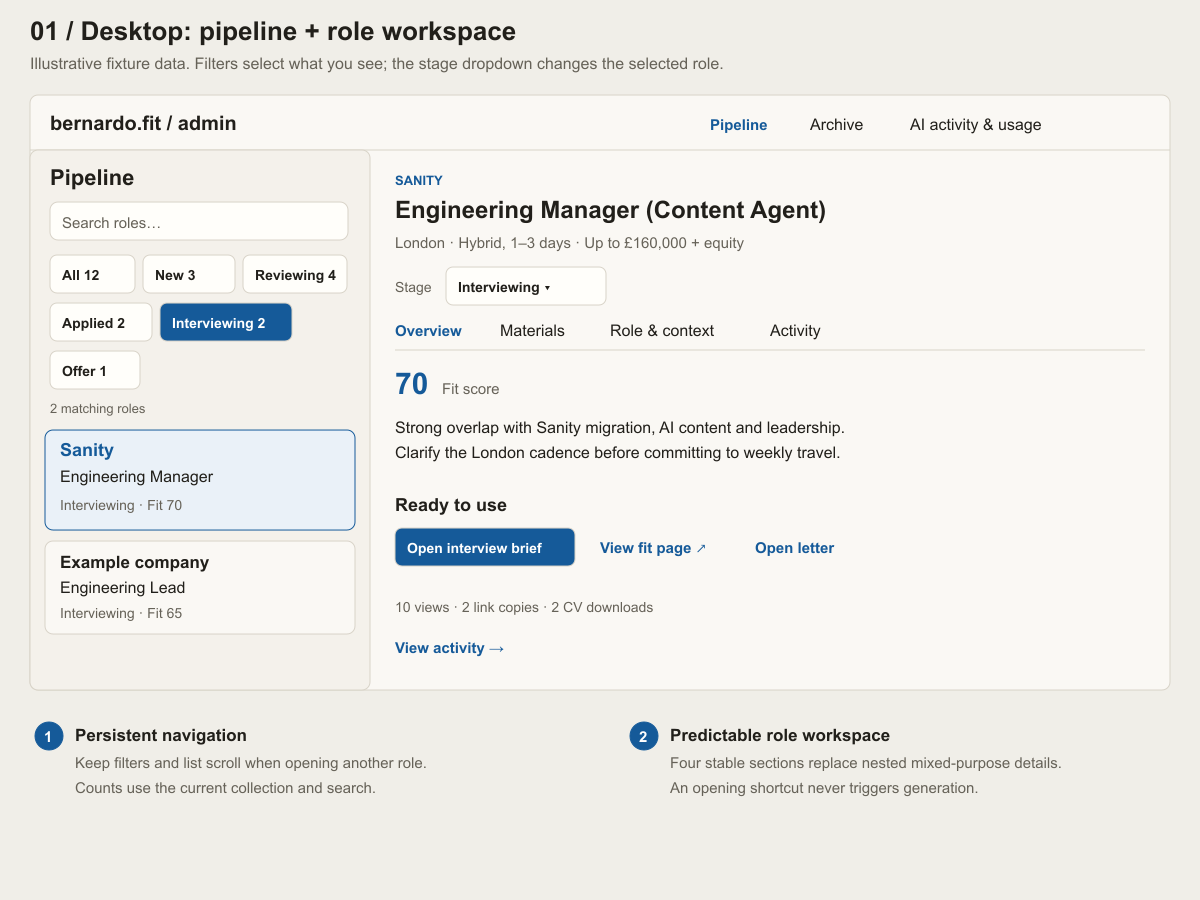
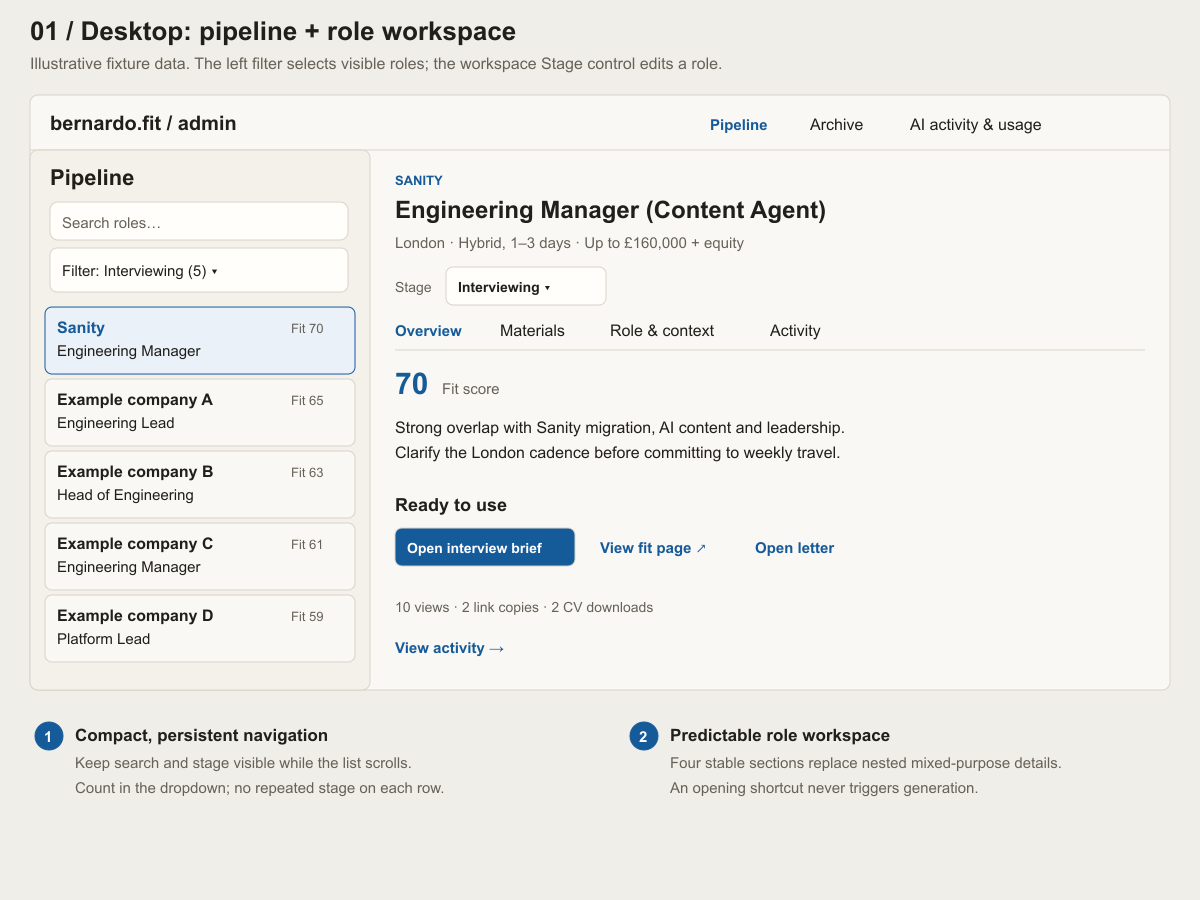
docs: compact pipeline filters and role entries

diff --git a/docs/admin-ux/README.md b/docs/admin-ux/README.md
@@ -1,6 +1,6 @@
 # Admin UX visual implementation guide
 
-Use alongside [the implementation plan](../admin-ux-implementation-plan.md). These annotated wireframes specify layout hierarchy and interaction intent, not completed functionality or pixel-perfect screenshots. Counts, the second company, and review state are illustrative fixtures. Real stages, freshness, scope, costs and output availability come from the application.
+Use alongside [the implementation plan](../admin-ux-implementation-plan.md). These annotated wireframes specify layout hierarchy and interaction intent, not completed functionality or pixel-perfect screenshots. Counts, example companies, and review state are illustrative fixtures. Real stages, freshness, scope, costs and output availability come from the application.
 
 The SVG sources are editable, self-contained and readable on GitHub. Companion PNGs show the same guides for image viewers. Do not implement screenshot text as hard-coded application data. The latest user decision is represented here: **amber sparkle generation buttons, without repeated Paid AI labels**.
 
@@ -8,9 +8,11 @@ The SVG sources are editable, self-contained and readable on GitHub. Companion P
 
 ![Desktop pipeline with stage filters and selected role overview](01-desktop-workspace.svg)
 
-- Left: search, wrapping stage filters with counts, compact results. Right: one selected role and its four sections.
-- Stage chips change the list filter. The labelled Stage dropdown edits the role. The two must never share a mutation handler.
-- Filter counts match the current collection and search before applying the stage filter. The fixture totals are coherent: 3 New + 4 Reviewing + 2 Applied + 2 Interviewing + 1 Offer = 12.
+- Left: full-width search followed by one compact stage dropdown, then dense role entries. Right: one selected role and its four sections. These two control rows replace the wrapping chip grid.
+- The Filter by stage dropdown changes the list filter; its visible value includes the selected stage and count. The separately labelled Stage dropdown in the workspace edits the role. The two must never share a mutation handler.
+- Filter counts match the current collection and search before applying the stage filter. The illustrative dropdown options are All stages (15), New (3), Reviewing (4), Applied (2), Interviewing (5) and Offer (1). All five visible entries match Interviewing.
+- Keep the search/filter block sticky while entries scroll underneath it. Remove the separate matching-roles count line. No additional Filters button is needed for the current feature set.
+- Use company and fit score on line one, role on line two. Omit repeated Interviewing labels in this filtered view; restore stage metadata in All stages. Allow wrapping for long titles.
 - Keep Overview focused on evaluating the opportunity and opening existing work. Generation belongs in Materials, not a competing toolbar below every pipeline row.
 - Fit score must retain an accessible route to its explanation; hover alone is insufficient.
 - When a stage change removes the current role from the list, keep its workspace with an explanatory notice and a return action. Do not switch to another role unexpectedly.
@@ -35,7 +37,7 @@ The SVG sources are editable, self-contained and readable on GitHub. Companion P
 ![Three mobile states showing pipeline, role overview and stacked material actions](03-mobile-navigation.svg)
 
 - The three frames are separate screens, not three columns on a device.
-- Back to pipeline restores stage, search and scroll. Browser Back must work too.
+- Back to pipeline restores stage, search and scroll. Browser Back must work too. Keep the same two compact control rows and sticky behaviour on mobile; do not restore wrapping stage chips.
 - Collapse to one pane when the two desktop columns cannot fit comfortably. Start evaluating a breakpoint around 900 px; decide from actual content fit, not device names.
 - Wrap the four section controls, or use an equally discoverable accessible pattern. Keep their names consistent across widths.
 - Stack output actions before labels become cramped. Avoid horizontal action scrolling and hover-dependent controls.
@@ -84,11 +86,13 @@ These are implementation starting points; preserve existing font assets and adju
 | Role heading | 24–28 px, existing Schibsted Grotesk |
 | Body and inputs | 15–16 px, existing IBM Plex Sans; readable line height around 1.5 |
 | Secondary metadata | 13–14 px; reserve mono for compact identifiers or technical metadata |
+| Pipeline entries | Two-line baseline, approximately 10–12 px vertical padding; allow growth for long titles, mixed-stage metadata and attention indicators |
+| Search/filter block | Two control rows with an 8 px gap; at least 44 px mobile targets; sticky within the list scroll region |
 | Output rows | Approximately 16–20 px vertical padding, subtle horizontal dividers |
 | Controls | Modest 6–8 px corner radius; at least 44 px mobile touch targets |
 | Focus | Visible 2 px outline with offset, checked against adjacent colours |
 
-Avoid turning every sentence into a card. Use whitespace, headings and dividers for structure. Use one strong blue opening shortcut on Overview; the other read actions can be links. A filled blue stage chip means selected filter, not generation.
+Avoid turning every sentence into a card. Use whitespace, headings and dividers for structure. Use one strong blue opening shortcut on Overview; the other read actions can be links. The closed stage filter uses a neutral dropdown treatment and includes its count; reserve blue selection emphasis for the selected role and active navigation.
 
 ## 7. Colour and icon reference
 
@@ -109,7 +113,9 @@ Use a consistent sparkle icon asset in production. The SVG glyph is schematic, n
 
 ## 8. Visual verification checklist
 
-- At 1280 px, the selected role has sufficient reading width and the stage filters remain discoverable.
+- At 1280 px, the selected role has sufficient reading width and search plus one stage dropdown consume only two control rows. No separate matching-count line or extra Filters button is present.
+- During long-list scrolling, search and stage remain visible and keyboard-focused entries are not covered. Compare the number of visible entries against the prior chip layout at the same viewport.
+- In a specific-stage view, rows omit duplicate stage labels; switching to All stages restores them.
 - At 768 px and 360–390 px, the interface becomes one pane without clipped labels or horizontal action overflow.
 - Long company names, missing salaries and multiline role titles do not displace stage controls or truncate essential meaning.
 - A user can identify opening, editing and generation actions without colour, using verbs and the sparkle convention.

diff --git a/docs/admin-ux-implementation-plan.md b/docs/admin-ux-implementation-plan.md
@@ -18,13 +18,13 @@ The user approved the pipeline + workspace direction and explicitly replaced the
 - Keep the warm paper palette and existing typography, improving hierarchy, spacing and readability.
 - Desktop: compact pipeline list on the left, selected role workspace on the right.
 - Small screens: list and workspace become separate views with a clear Back to pipeline control.
-- Stage filters navigate the pipeline; the stage dropdown changes the selected role's status. Keep these controls visually and semantically distinct.
+- A compact Filter by stage dropdown navigates the pipeline; the separate Stage dropdown in the workspace changes the selected role's status. Keep these controls distinctly labelled and scoped.
 - Four workspace sections: Overview, Materials, Role & context, Activity.
 - Opening an existing output must never start generation. This includes outdated outputs.
 - Chargeable generation has its own warm amber button treatment and sparkle icon, with explicit verbs such as Generate analysis, Rewrite letter, Rewrite brief and Refresh research.
 - Do not append Paid AI to buttons or repeat it as a badge beside each action.
 - Explain the convention with a short visible legend near generation controls: “Sparkle actions run AI and may incur costs.” Retain cost information in the generation review.
-- Amber is reserved for generation controls. Use neutral text, icons and descriptive notices for stale data; use a separate accessible treatment for errors. Do not reuse the amber generation treatment for stage chips or navigation.
+- Amber is reserved for generation controls. Use neutral text, icons and descriptive notices for stale data; use a separate accessible treatment for errors. Do not reuse the amber generation treatment for stage filters or navigation.
 - Keep a review step before generation. It must state the work being requested and any additional research; opening this review is free of generation side effects.
 - Keep Archive separate from the active pipeline. Preserve existing stage-driven archiving rules.
 
@@ -71,7 +71,10 @@ Important baseline facts:
 
 ### Filters, counts and search
 
-- Put stage filters above the compact role list, including All and a count for each relevant stage.
+- Replace wrapping stage chips with one Filter by stage dropdown above the compact role list. Include All stages and every relevant stage with its count in the options; show the selected stage and its count in the closed control.
+- Use two compact control rows in the narrow pipeline: full-width search, then the single stage dropdown. Place them side by side only where both remain legible. Do not add a separate Filters button unless additional filter types actually exist.
+- Keep search and the stage dropdown sticky within the list pane while entries scroll. On mobile keep the compact controls visible during list scrolling without covering focused entries; preserve the existing scroll-restoration contract.
+- Remove the separate matching-roles count line; the dropdown already shows that count. Do not replace the chip rows with another tall filter panel.
 - Use API-provided stages. Active and archived views follow their own allowed stage sets.
 - Search combines with the selected stage. Preserve existing searchable fields and server-supported search behaviour.
 - Counts describe matches within the current active/archive collection and search, before applying the selected stage. All is the total for that same collection and search. Compute counts through the appropriate data contract; do not claim full counts from a partial loaded page.
@@ -90,7 +93,7 @@ Important baseline facts:
 
 ### Compact role row
 
-Show company, role, stage and fit score when present. Include only actionable indicators such as reply owed, active generation or missing analysis. Keep long rationales, engagement metrics, editors and generation toolbars out of the list. Use a labelled selection control and visible selected/focus states.
+Use a compact two-line baseline: company and fit score on the first line, role on the second. Omit repeated stage labels when a specific stage is selected; show stage in All stages or mixed-stage views. Allow additional height for long titles and genuine attention indicators, preserving readable type and touch targets. Include only actionable indicators such as reply owed, active generation or missing analysis. Keep long rationales, engagement metrics, editors and generation toolbars out of the list. Use a labelled selection control and visible selected/focus states.
 
 ## 5. Workspace information architecture
 
@@ -209,7 +212,7 @@ Use the smallest relevant checks per change. Existing tests are standalone Node 
 
 | Behaviour | Required acceptance | Candidate existing coverage |
 | --- | --- | --- |
-| Stage/search navigation | Counts are consistent; filtering does not mutate; search and stage combine; selection and scroll survive role switches and Back | `test-search.mjs`, `test-counts.mjs`, `test-ui.mjs`; add focused URL-state tests |
+| Stage/search navigation | One stage dropdown replaces chip rows; selected count is not repeated; controls stay visible during list scroll; row stage labels appear only for mixed-stage views; filtering does not mutate; counts/search/history remain correct | `test-search.mjs`, `test-counts.mjs`, `test-ui.mjs`; add focused URL-state tests |
 | Opening materials | Open letter/brief/research/fit and version previews produce zero generation dispatches, even when stale | `test-ui.mjs`, `test-stale.mjs`, `test-link.mjs`; add mocked dispatch assertions |
 | Paid generation | Review opens without dispatch; Cancel dispatches nothing; submit dispatches once with reviewed scope | `test-admin-run.mjs`, `test-screen.mjs`; add contract cases |
 | Scope changed during review | Stale research/input changes and newly eligible bulk jobs cannot silently expand the operation | `test-screen.mjs`, relevant release/task tests; add explicit race cases |
